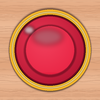
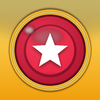
Make the winning line stand out and name its direction
Winning cells are now bright gold tiles with a white star, which reads
at chat emoji size where the thin gold ring did not, and the result
line says whether the four ran across, down or diagonally.

Claude-Session: https://claude.ai/code/session_01AR8fdje7DZNwDfreK37diT

diff --git a/cards.py b/cards.py
@@ -168,13 +168,22 @@ def cpu_card(game, premium=False):
     return {"blocks": blocks}
 
 
+def win_shape(game):
+    """How the winning four run: across, down or diagonally ('' without a line)."""
+    line = game.get("win_line")
+    if not line:
+        return ""
+    return {1: "across", engine.COLS: "down"}.get(abs(line[1] - line[0]), "diagonally")
+
+
 def cpu_result(game):
+    shape = win_shape(game)
     if game["winner"] == engine.RED:
-        return "🎉 You win!"
+        return f"🎉 You win – four {shape}!" if shape else "🎉 You win!"
     if game["winner"] == engine.YELLOW:
         if game.get("reason") == "resign":
             return "🏳 You resigned. The computer wins."
-        return "🤖 The computer wins this time. Try again!"
+        return f"🤖 The computer connected four {shape}. Try again!"
     return "🤝 Draw – the board is full."
 
 
@@ -225,4 +234,6 @@ def pvp_result(game):
     gained = change if winner == engine.RED else -change
     how = {"timeout": f"\n⏱ {names[loser]} ran out of time.",
            "resign": f"\n🏳 {names[loser]} resigned."}.get(game.get("reason"), "")
-    return f"🏆 {names[winner]} wins! (+{gained})\n{names[loser]}: -{gained}{how}"
+    shape = win_shape(game)
+    headline = f"🏆 {names[winner]} wins – four {shape}!" if shape else f"🏆 {names[winner]} wins!"
+    return f"{headline} (+{gained})\n{names[loser]}: -{gained}{how}"

diff --git a/emoji/woodboard.py b/emoji/woodboard.py
@@ -100,12 +100,35 @@ def gold_ring(img):
     img.alpha_composite(layer(inner, (255, 236, 160), 230, 1))
 
 
+def gold_tile():
+    """Bright gold square that makes winning cells stand out at emoji size."""
+    img = Image.new("RGBA", (S, S))
+    d = ImageDraw.Draw(img)
+    for y in range(S):
+        d.line((0, y, S, y), fill=lerp((255, 226, 110), (240, 160, 10), y / S) + (255,))
+    shine = Image.new("L", (S, S), 0)
+    ImageDraw.Draw(shine).ellipse((-120, -260, S + 120, 150), fill=255)
+    img.alpha_composite(layer(shine, (255, 255, 255), 90, 30))
+    return img
+
+
+def star_mask(cx, cy, outer, inner):
+    pts = [(cx + (outer if k % 2 == 0 else inner) * math.cos(-math.pi / 2 + k * math.pi / 5),
+            cy + (outer if k % 2 == 0 else inner) * math.sin(-math.pi / 2 + k * math.pi / 5)) for k in range(10)]
+    m = Image.new("L", (S, S), 0)
+    ImageDraw.Draw(m).polygon(pts, fill=255)
+    return m
+
+
 def tile(colors=None, state=""):
-    img = hole(wood())
+    img = hole(gold_tile() if state == "win" else wood())
     if colors:
         disc(img, colors)
         if state == "win":
             gold_ring(img)
+            star = star_mask(C, C + 6, 74, 32)
+            img.alpha_composite(layer(star, (90, 50, 0), 150, 6, 0, 6))
+            img.alpha_composite(layer(star, (255, 255, 255), 255))
     return img
 
 

diff --git a/test_bot.py b/test_bot.py
@@ -76,6 +76,7 @@ class BotTest(unittest.TestCase):
         for user, col in [(ALI, 0), (MONA, 1), (ALI, 0), (MONA, 1), (ALI, 0), (MONA, 1), (ALI, 0)]:
             self.press(user, game, f"col:{col}")
         self.assertEqual(game["winner"], engine.RED)
+        self.assertIn("Ali wins – four down!", bot.cards.pvp_result(game))
         ali, mona = bot.state["players"]["11"], bot.state["players"]["22"]
         self.assertEqual((ali["rating"], mona["rating"]), (1016, 984))
         self.assertEqual((ali["wins"], mona["losses"]), (1, 1))
